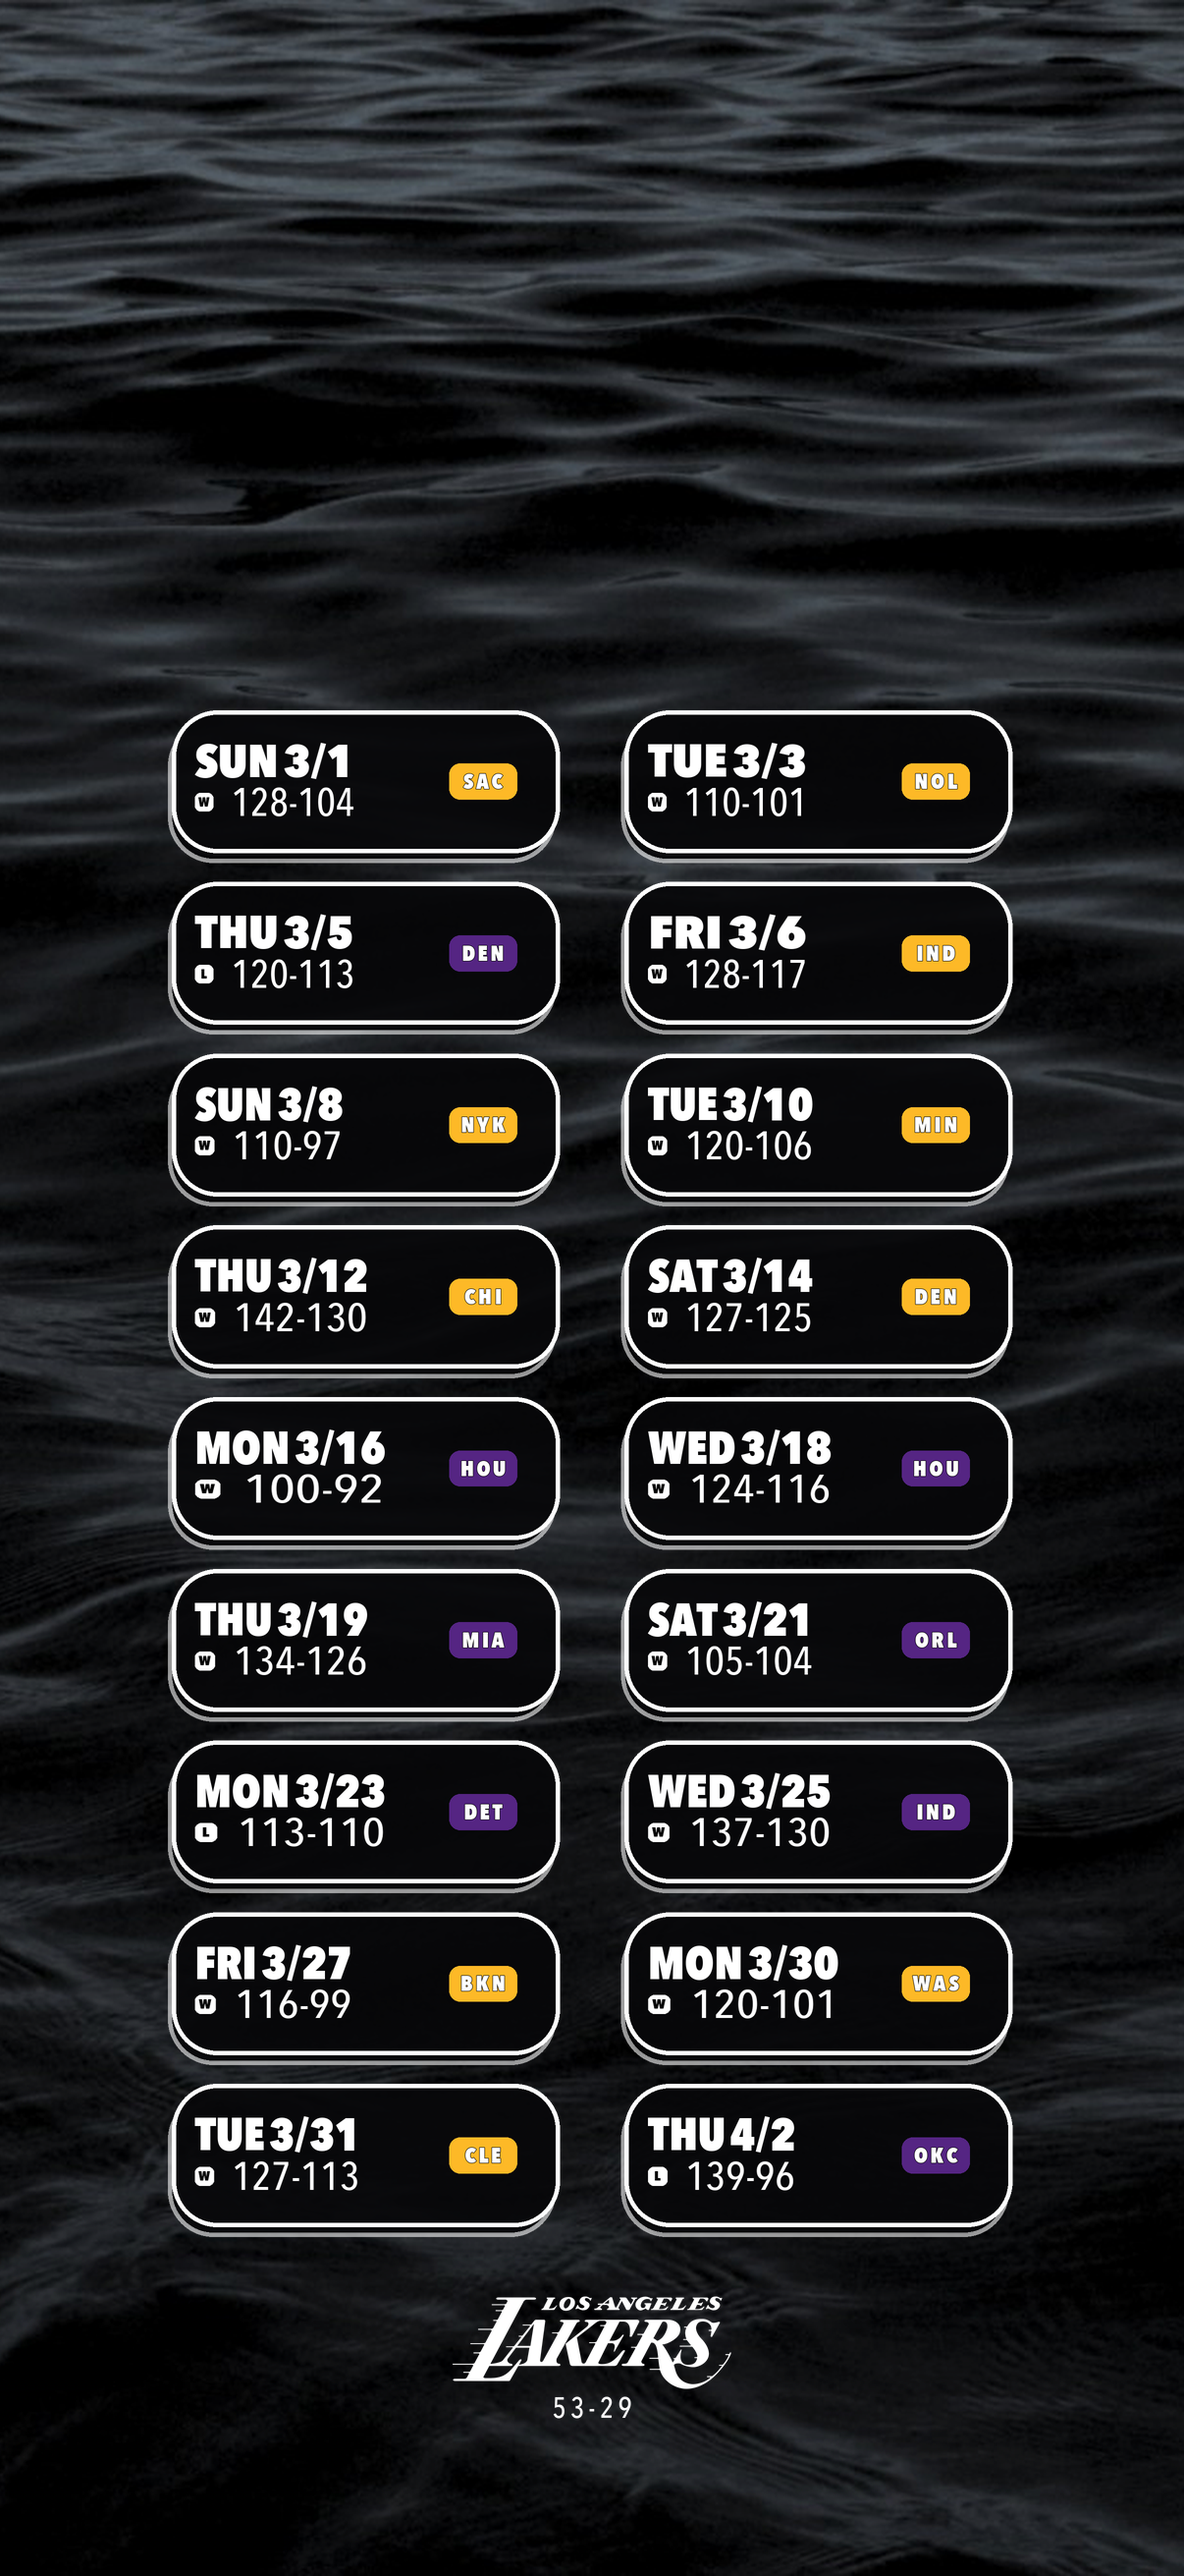
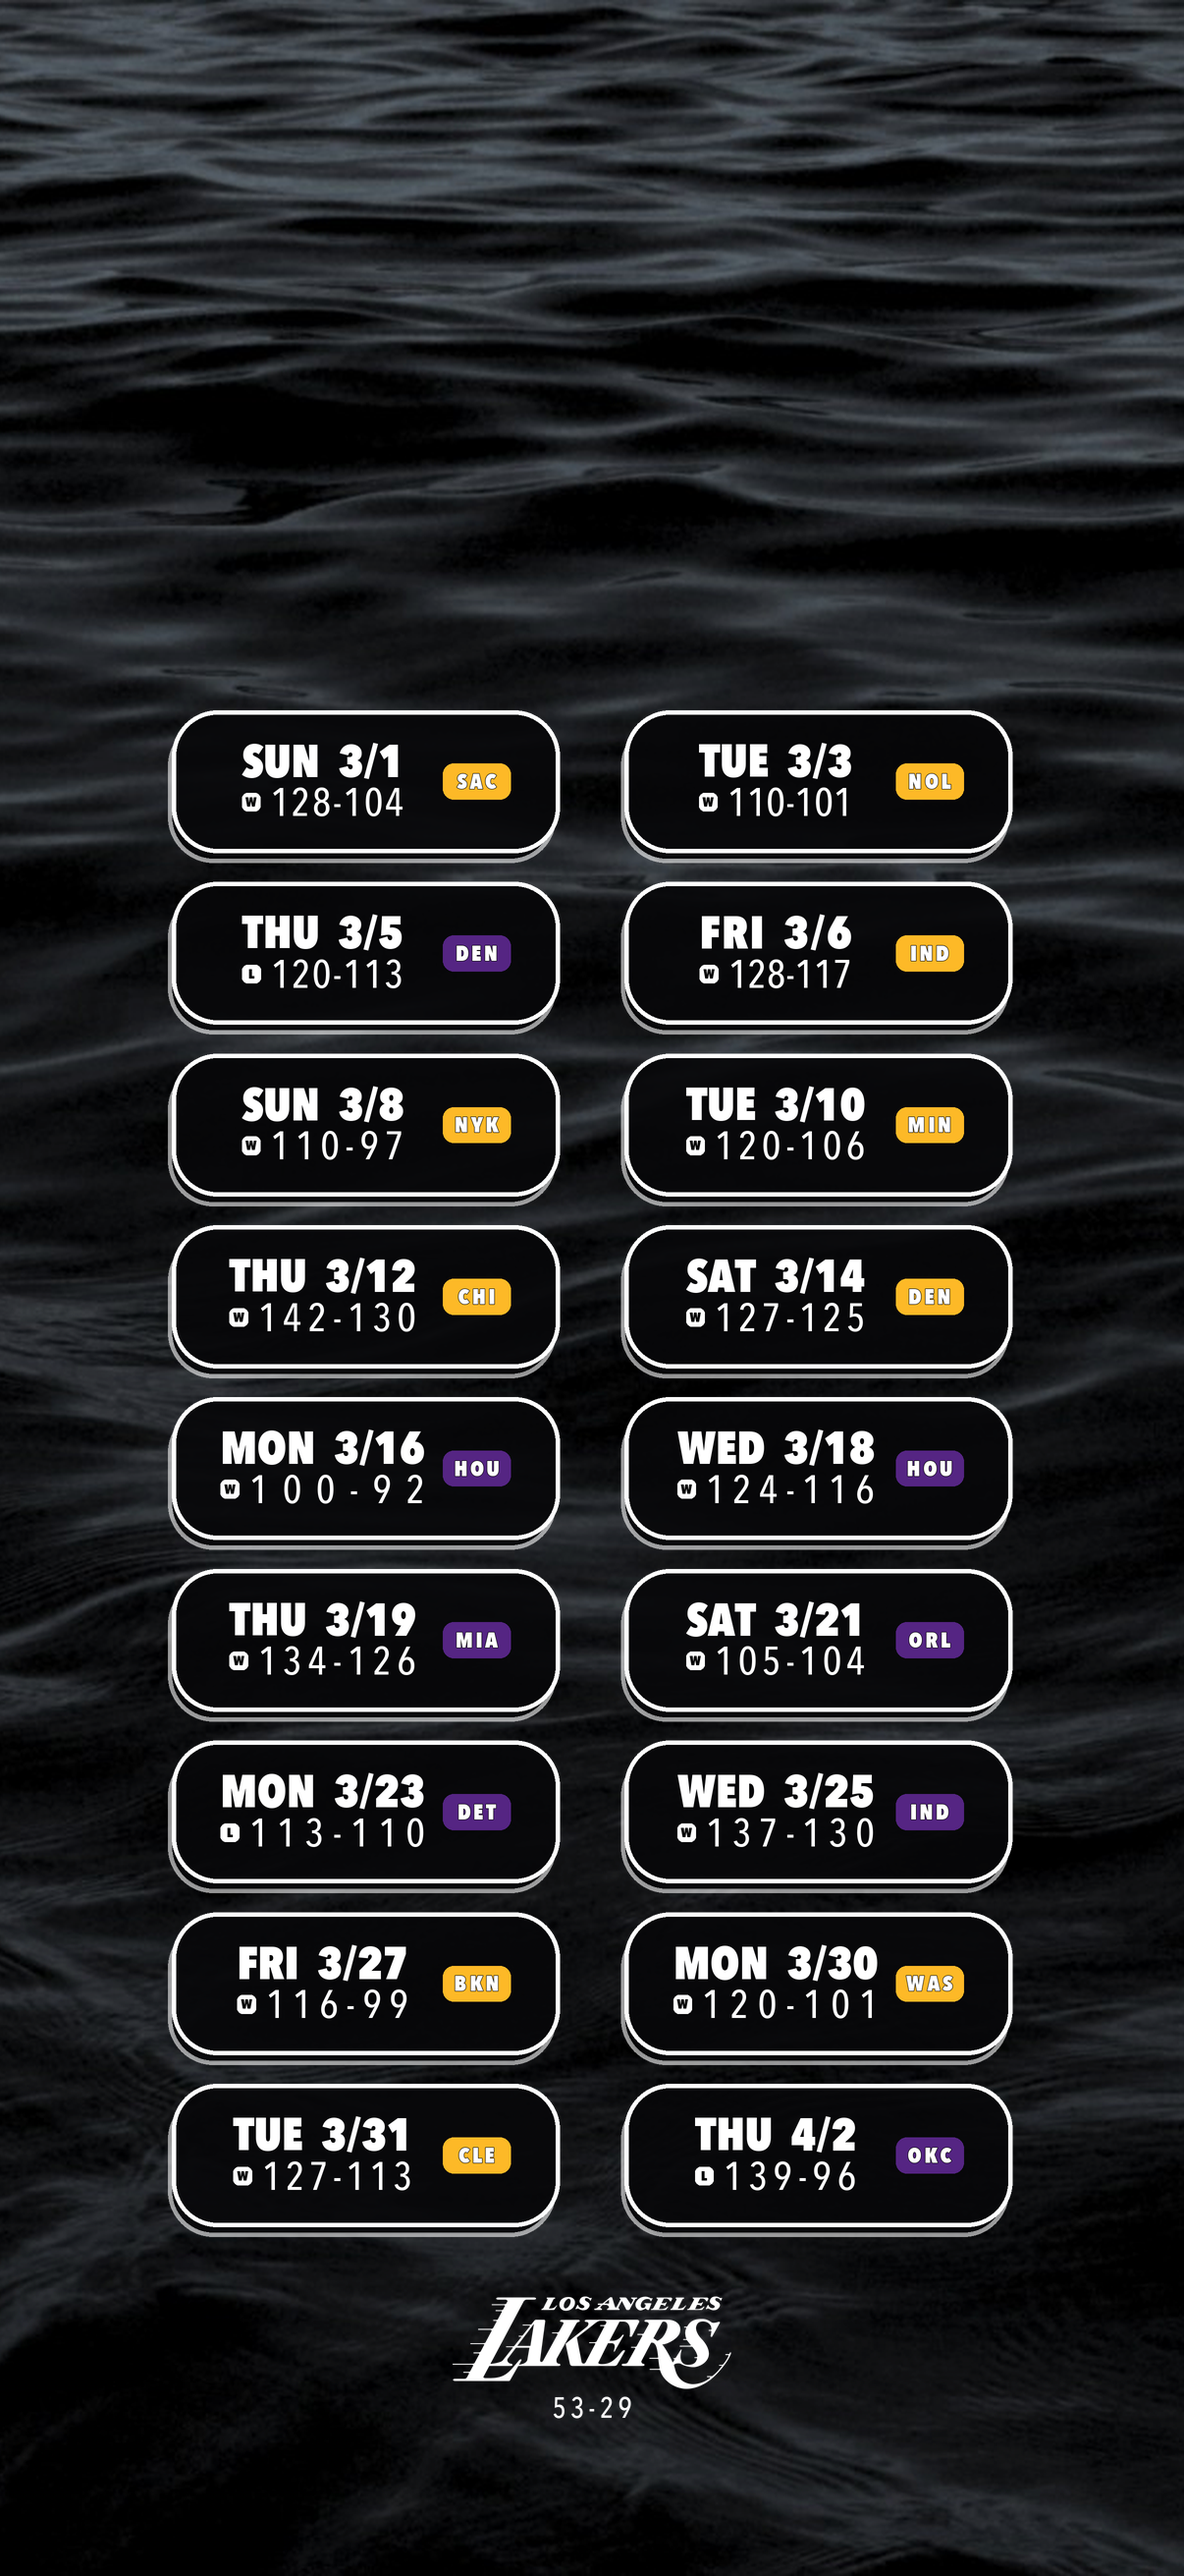
Centre the chip block; justify per chip inside a fixed slot
Each chip justifies its own two lines to their shared natural width, so
tracking stays minimal. That block is centred inside a slot sized once
per month, which keeps the tags in a column without forcing short chips
to stretch to the widest chip in the month.

Also centres text+gap+tag as a group instead of pinning text left and tag
right with a floating gap, and tightens the W/L badge gap now that line
two is set larger.

diff --git a/lakerscreen/render.py b/lakerscreen/render.py
@@ -170,42 +170,6 @@ def _draw_runs(c: _Canvas, cx: float, cy: float, runs: Sequence[Run],
         x += float(r["w"]) + (float(r["gap"]) if i < len(runs) - 1 else 0.0)
 
 
-def _draw_runs_stretched(c: _Canvas, x: float, cy: float, runs: Sequence[Run],
-                         target: float) -> None:
-    """Draw a line widened to `target` by stretching the glyphs horizontally.
-
-    Widening with letter-spacing instead makes a short line like "7:00 PM"
-    crawl across the chip while a long one stays tight, which is exactly what
-    reads as broken when played and unplayed games sit side by side. Scaling
-    the drawn line keeps the spacing rhythm and just makes the letters wider.
-    """
-    natural = _runs_width(runs)
-    if natural <= 0:
-        return
-    factor = target / natural
-    if factor <= 1.02:
-        _draw_runs(c, x, cy, runs, align="left")
-        return
-
-    s = c.ss
-    sizes = [r["font"].size for r in runs if r["kind"] == "text"]
-    band = (max(sizes) if sizes else int(20 * s)) * 2.4
-    hpx = int(math.ceil(band))
-    wpx = int(math.ceil(natural * s)) + 2 * s
-
-    tmp = Image.new("RGBA", (max(1, wpx), max(1, hpx)), (0, 0, 0, 0))
-    keep_layer, keep_draw = c.layer, c.draw
-    c.layer, c.draw = tmp, ImageDraw.Draw(tmp)
-    try:
-        _draw_runs(c, float(s) / s, (hpx / 2.0) / s, runs, align="left")
-    finally:
-        c.layer, c.draw = keep_layer, keep_draw
-
-    tmp = tmp.resize((max(1, int(round(target * s)) + 2 * s), hpx), Image.LANCZOS)
-    keep_layer.alpha_composite(tmp, (int(round(x * s)) - s,
-                                     int(round(cy * s - hpx / 2.0))))
-
-
 def _fmt_date(g: Game):
     """Weekday and date as separate runs, so the gap between them is tunable
     rather than being whatever a space character happens to measure."""
@@ -322,6 +286,19 @@ def _vertical_scale(c: _Canvas, cfg: Config, h: float) -> float:
     return max(0.2, min(limits))
 
 
+def _line_target(c: _Canvas, cfg: Config, w: float, h: float,
+                 games: Sequence[Game], scale: float, tag_w: float) -> float:
+    """Width every chip's text block is set to. Taken across the whole month so
+    the blocks are identical and the tags line up, rather than each chip sizing
+    itself to its own content."""
+    lz0, lz1, _, _ = _zones(cfg, w, tag_w)
+    widest = 0.0
+    for g in games:
+        tl, bl, _, _ = _chip_lines(c, g, cfg, w, h, scale)
+        widest = max(widest, _runs_width(tl), _runs_width(bl))
+    return min(widest, lz1 - lz0)
+
+
 def _type_scale(c: _Canvas, cfg: Config, w: float, h: float, games: Sequence[Game],
                 tag_w: float = 0.0) -> float:
     """Largest uniform type scale that fits both the zone widths and the chip
@@ -344,7 +321,7 @@ def _type_scale(c: _Canvas, cfg: Config, w: float, h: float, games: Sequence[Gam
 
 
 def _draw_chip(c: _Canvas, box, g: Game, cfg: Config, scale: float = 1.0,
-               tag_w: float = 0.0) -> None:
+               tag_w: float = 0.0, line_target: float = 0.0) -> None:
     lay, pal = cfg.layout, cfg.palette
     x0, y0, x1, y1 = box
     w, h = x1 - x0, y1 - y0
@@ -366,6 +343,11 @@ def _draw_chip(c: _Canvas, box, g: Game, cfg: Config, scale: float = 1.0,
     ya, yb = y0 + h * lay.line1_y, y0 + h * lay.line2_y
 
     tl, bl, tr, br = _chip_lines(c, g, cfg, w, h, scale)
+    _tag_x1 = None
+    if lay.justify_lines and cfg.marker == "tag":
+        _slot = line_target or min(max(_runs_width(tl), _runs_width(bl)), lw)
+        _group = _slot + w * lay.tag_gap + tag_w
+        _tag_x1 = x0 + (w - _group) / 2.0 + _group
 
     if cfg.marker == "tag":
         accent = pal.gold if g.is_home else pal.purple
@@ -375,7 +357,7 @@ def _draw_chip(c: _Canvas, box, g: Game, cfg: Config, scale: float = 1.0,
         # Uniform width, sized to the month's widest code, so the tags form a
         # clean column instead of each hugging its own letters.
         tw = tag_w if tag_w > 0 else c.text_width(g.opponent, font, tr_px) + th * lay.tag_pad * 2
-        tx1 = x1 - w * lay.tag_right_pad
+        tx1 = _tag_x1 if _tag_x1 is not None else x1 - w * lay.tag_right_pad
         tcy = (y0 + y1) / 2.0
         c.rounded_rect((tx1 - tw, tcy - th / 2.0, tx1, tcy + th / 2.0),
                        th * lay.badge_radius,
@@ -417,9 +399,17 @@ def _draw_chip(c: _Canvas, box, g: Game, cfg: Config, scale: float = 1.0,
                        sw / 2.0, fill=pal.gold if g.is_home else pal.purple)
 
     if lay.justify_lines:
-        target = min(max(_runs_width(tl), _runs_width(bl)), lw)
-        _draw_runs_stretched(c, x0 + lz0, ya, list(tl), target)
-        _draw_runs_stretched(c, x0 + lz0, yb, list(bl), target)
+        # Each chip justifies its own two lines to their shared natural width,
+        # so tracking stays minimal. That block is then centred inside a slot
+        # sized once for the month, which is what keeps the tags in a column.
+        slot = line_target or min(max(_runs_width(tl), _runs_width(bl)), lw)
+        target = min(max(_runs_width(tl), _runs_width(bl)), slot)
+        gap = w * lay.tag_gap
+        group = slot + (gap + tag_w if cfg.marker == "tag" else 0.0)
+        gx = x0 + (w - group) / 2.0
+        tx = gx + (slot - target) / 2.0
+        _draw_runs(c, tx, ya, _justify(c, list(tl), target), align="left")
+        _draw_runs(c, tx, yb, _justify(c, list(bl), target), align="left")
     else:
         # Both lines start at the same x and keep their natural spacing.
         # Stretching them to a common width made a short line like "2:00 PM"
@@ -539,11 +529,13 @@ def build(cfg: Config, ttl: Optional[int] = None
 
         tag_w = _tag_width(c, cfg, chip_h, shown) if cfg.marker == "tag" else 0.0
         scale = _type_scale(c, cfg, col_w, chip_h, shown, tag_w)
+        line_target = _line_target(c, cfg, col_w, chip_h, shown, scale, tag_w)
         for i, g in enumerate(shown):
             row, col = divmod(i, cols)            # row-major: L, R, L, R ...
             x0 = col_x[col]
             y0 = start_y + row * pitch + (pitch - chip_h) / 2.0
-            _draw_chip(c, (x0, y0, x0 + col_w, y0 + chip_h), g, cfg, scale, tag_w)
+            _draw_chip(c, (x0, y0, x0 + col_w, y0 + chip_h), g, cfg, scale,
+                       tag_w, line_target)
 
     _draw_footer(c, (W, H), month_key, record, cfg, _wordmark(cfg, shown_season))
     return c.flatten_onto(base), month_key, shown, record

diff --git a/lakerscreen/config.py b/lakerscreen/config.py
@@ -62,7 +62,7 @@ class Layout:
     column_gutter: float = 0.0550       # fraction of width
     # Chip proportions.
     max_pitch: float = 0.0744           # row-to-row spacing cap, of image height
-    single_col_width: float = 0.4600    # chip width in single-column mode, of image width
+    single_col_width: float = 0.4000    # chip width in single-column mode, of image width
     chip_height_ratio: float = 0.8300    # of the per-row pitch
     chip_max_height: float = 0.0680     # of image height, caps chips in light months
     corner_radius_ratio: float = 0.3200   # of chip height
@@ -108,13 +108,13 @@ class Layout:
     dot_h: float = 0.058
     dot_gap: float = 0.170              # space between vs/at and the swatch
     date_tracking: float = 0.0000
-    date_gap: float = 0.1000           # space between weekday and date, of font size        # letter-spacing, as a fraction of font size
+    date_gap: float = 0.4000           # space between weekday and date, of font size        # letter-spacing, as a fraction of font size
     vs_tracking: float = 0.250
     team_tracking: float = 0.2600
     badge_size: float = 0.1350           # W/L badge square, of chip height
     badge_radius: float = 0.300         # corner radius, of badge size
     badge_font: float = 0.720           # letter size inside the badge, of badge size
-    result_gap: float = 0.45            # space between the W/L badge and the score
+    result_gap: float = 0.2600            # space between the W/L badge and the score
     chip_vpad: float = 0.0850            # inner top/bottom margin, of chip height
     line_min_gap: float = 0.0700         # minimum ink gap between the two lines
     min_shrink: float = 0.62            # floor for auto-shrinking an overlong line
